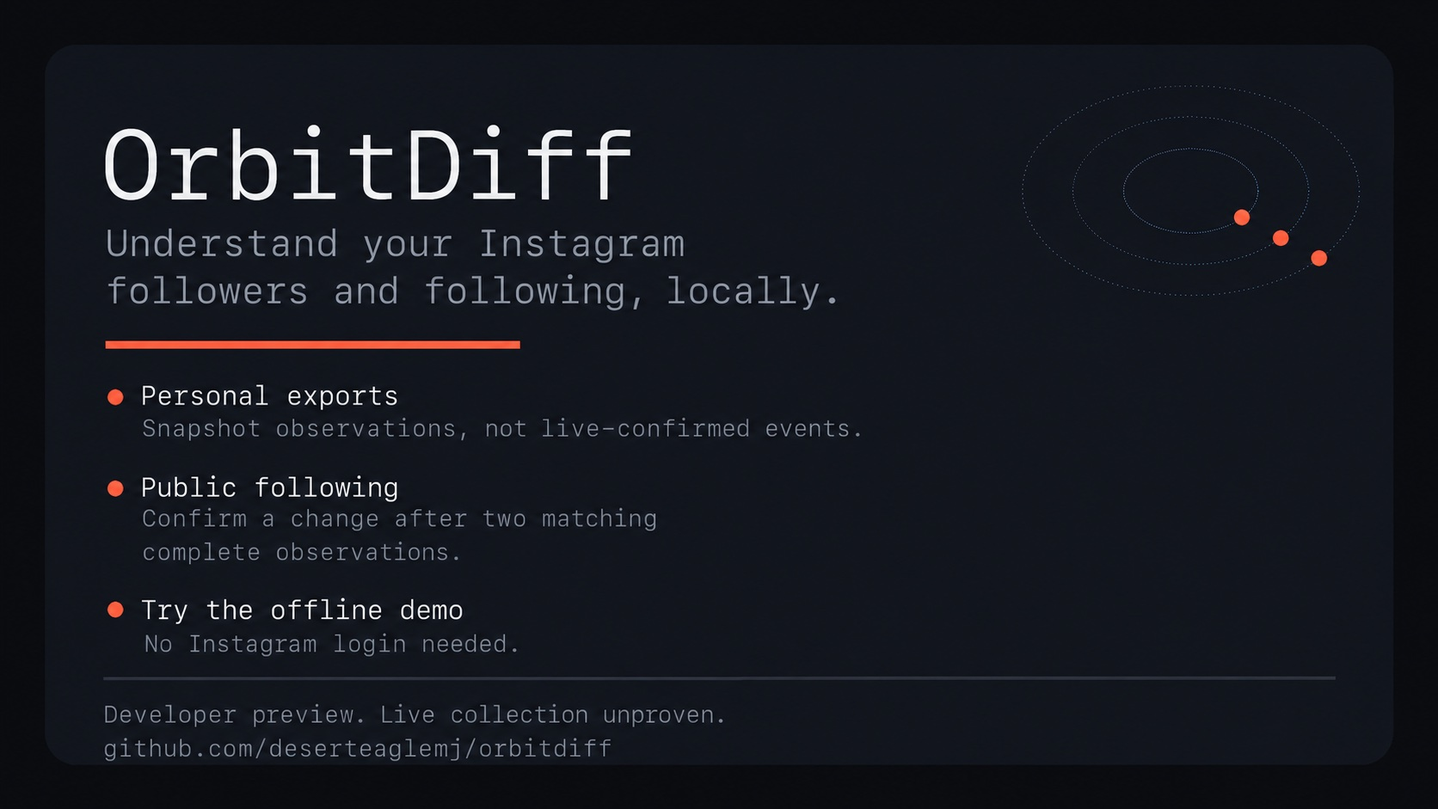
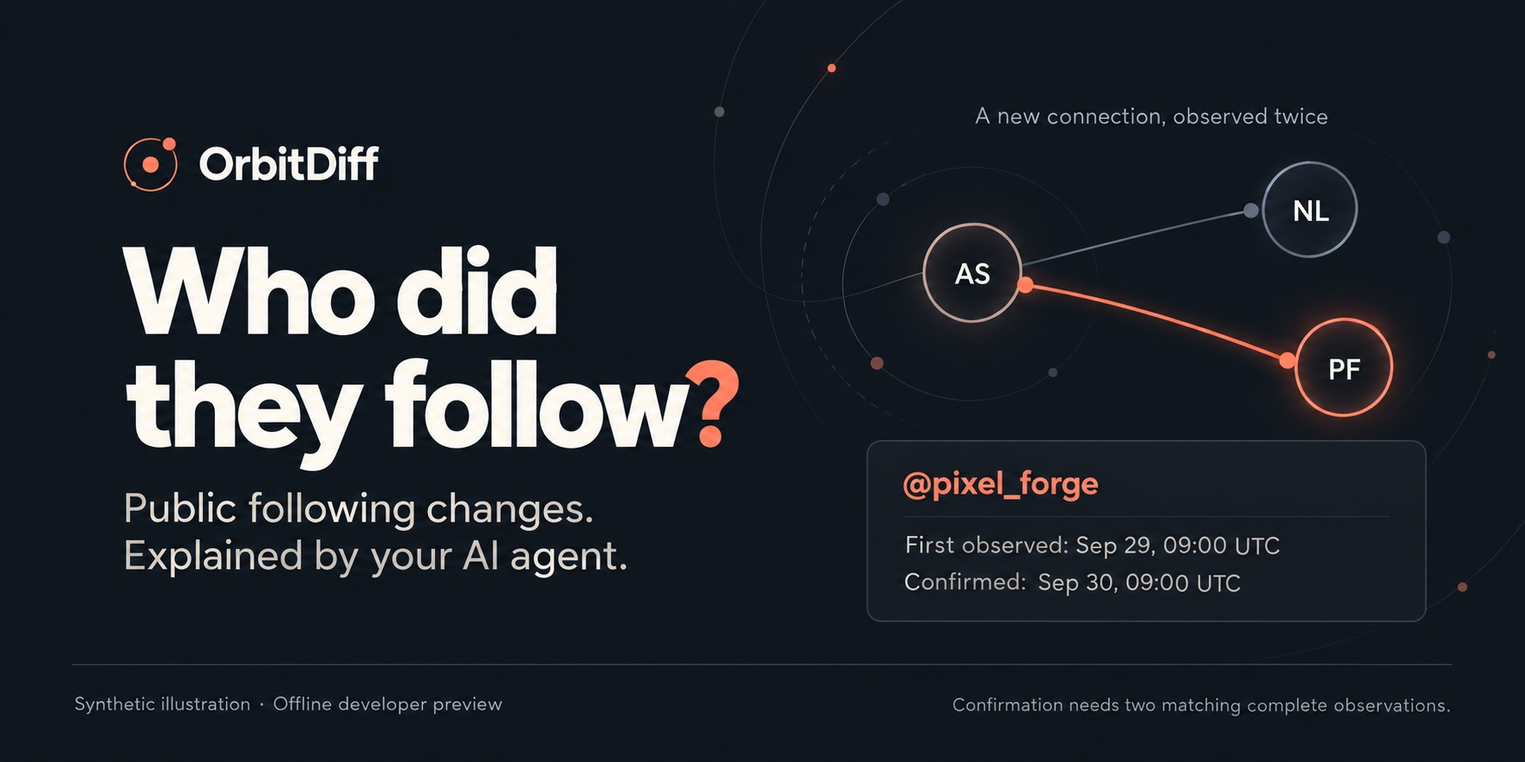
Lead OrbitDiff with public following changes (#6)
* Lead OrbitDiff marketing with public following changes

* Keep the first action above the hero image

diff --git a/docs/github-usability-audit.md b/docs/github-usability-audit.md
@@ -1,10 +1,10 @@
 # GitHub and first-use audit
 
-Audit dated 2026-09-30. Outcome: partial. The public story and starting instructions were improved; release delivery, fresh host execution, and human usability retain the separate gates below. This record separates observed defects, usability hypotheses, and editorial preferences. It is not a customer-research or conversion-success claim.
+Audit dated 2026-09-30, revised after the founder selected a public-following-first audience. Outcome: partial. The marketing implementation and audit findings are recorded separately from release delivery, fresh host execution, human usability, and live collection. This record separates observed defects, usability hypotheses, and editorial preferences. It is not a customer-research or conversion-success claim.
 
 ## Baseline and method
 
-Public main: `01cae2acdd4f4d2b1a24f7cba6d62ec79ac343e0`, the merge of PR #4. Published preview: `v0.2.2` at `f30806c88761ce1b271135dab5c9cc5550a76e8a`. Its assets precede the installation improvements on main. GitHub's Latest release selects stable v0.2.1; v0.2.2 is explicitly a prerelease.
+Initial audit baseline: `01cae2acdd4f4d2b1a24f7cba6d62ec79ac343e0`, the merge of PR #4. Marketing revision baseline: `42e393ba6a5083d31f850c465490c11392fe9b43`, the merge of PR #5. Published preview: `v0.2.2` at `f30806c88761ce1b271135dab5c9cc5550a76e8a`. Its assets precede the installation improvements on main. GitHub's Latest release selects stable v0.2.1; v0.2.2 is explicitly a prerelease.
 
 Read the repository and rendered GitHub README, inspected repository metadata and release assets with GitHub CLI 2.100.0, and followed the published installation check. Local environment: Apple Silicon macOS 26.6.2, Python 3.13. Existing commands and assets were retained; no Instagram collection was attempted.
 
@@ -14,7 +14,7 @@ GitHub returned zero issues and zero discussions at inspection. No participant o
 
 ## Finding register
 
-All findings below were observed on 2026-09-30. Source paths refer to baseline main unless stated otherwise. Owners are the maintainer except the real-participant prerequisite, which belongs to the user.
+All findings below were observed on 2026-09-30. G01-G08 refer to the initial baseline; G09-G12 refer to the marketing revision baseline. Owners are the maintainer except the real-participant prerequisite, which belongs to the user.
 
 | ID | Category / priority / classification | Evidence and reproduction | Impact, smallest fix, and acceptance | State |
 | --- | --- | --- | --- | --- |
@@ -26,18 +26,43 @@ All findings below were observed on 2026-09-30. Source paths refer to baseline m
 | G06 | Branding / P2 / verified metadata gap | GitHub About mentions public following only; GraphQL reports usesCustomOpenGraphImage=false. | Discovery/sharing omits the personal-export use case and uses a generic preview. Prepare matching description and share asset; acceptance requires live settings readback. | Fixed: description read back and custom preview visibly applied; GraphQL now reports true. |
 | G07 | Branding / P2 / verified claim-evidence mismatch | View docs/social-preview.png: broad host claims, any-public wording, and a change being real after two scans. | Shared copy overstates evidence and compatibility. Replace with the two supported sources and accurate limits; visually inspect text/crop and read back configured preview. | Fixed and retested in the image and GitHub preview setting. |
 | G08 | First result / P3 / editorial preference | README has no result image although docs/demo.svg exists. | A synthetic example may make the output easier to understand. Embed the labeled illustration with equivalent alt text; inspect rendering and measure interpretation in the pilot. | Illustration embedded; rendering evidence belongs to the PR handoff. Human interpretation Unproven. |
+| G09 | Positioning / P1 / verified mismatch with founder direction | README opens with the owner's supplied exports. The founder explicitly selected people asking who a crush or partner started following. | The lead story answers the secondary job. Lead with another account's public following changes, a recognizable relationship-curiosity use case, and a single offline first action. Acceptance: opening, metadata, image, and context agree. | Copy and generated asset implemented; publication checks recorded in the PR handoff. Audience demand Unproven. |
+| G10 | Understanding / P2 / usability hypothesis | README does not explain first-observed versus confirmed dates or the lack of exact Follow action time near the public promise. Source stores collection-derived dates. | Readers asking "when" may infer an exact action timestamp. Add a concrete synthetic sequence and date explanation, with baseline and confirmation requirements. Retest against source and advertised release; measure interpretation in the pilot. | Source and release semantics agree; copy and pilot updated. Human comprehension Unproven. |
+| G11 | Automation / P2 / usability hypothesis | Existing copy says no schedule is installed but leaves the daily-use path to skill references. | Readers may not understand the next prerequisite. Explain verified manual live use, explicit scheduling, and host support, then link to the authoritative cadence reference. | Prerequisites colocated with the daily-use answer. Live and host gates remain Unproven. |
+| G12 | Research / P2 / verified coverage gap | The original pilot has no explicit task on public date interpretation or daily scheduling prerequisites. | A pilot focused on owner exports would miss the new primary job. Add a neutral public-example task and separate evaluator criteria. Acceptance: task uses synthetic data and tests meaning without live collection. | Pilot packet updated. Actual participants remain 0 of 5. |
 
 ## Decisions and evidence coverage
 
-Headline alternatives considered: "Your Instagram relationships, stored on your computer" (existing, broad), "Understand your Instagram followers and following, locally" (selected, names the input domain and benefit), and "See what changed in your Instagram exports" (too narrow for the public-list workflow). This is an editorial choice, not a measured winner.
+The initial audit selected "Understand your Instagram followers and following, locally" from three editorial alternatives. That direction was superseded by the founder's explicit public-following use case after PR #5. Neither headline is a measured conversion winner.
 
 The selected action is "Try the offline demo with your agent". A star/share request would not help a newcomer reach a first result. The opening keeps the evidence limits beside the two workflows. The existing synthetic illustration is labeled; it is not a screenshot or live result.
 
 The skill's current route table distinguishes installation, import, stored inspection, public collection, diagnosis, and scheduling. It conditionally loads references and retains supported metadata and invocation policy. No observed routing defect yet justifies a broad rewrite. Public/private scope and untrusted-input cases remain covered by existing deterministic tests; test results will be reported separately from fresh host behavior.
 
-The README was reduced from 1,179 to 834 whitespace-delimited words. The recommended route now has one opening action and a concrete task, with manual alternatives in a disclosure. These are editorial and structural changes, not measured improvements in task completion or conversion.
+PR #5 reduced the README from 1,179 to 834 whitespace-delimited words and selected one opening action with a concrete task, retaining manual alternatives in a disclosure. These were editorial and structural changes, not measured improvements in task completion or conversion. The marketing revision adds the public date example and daily-use explanation instead of treating word count as the goal.
 
-The repository description now reads: "Understand Instagram followers and following locally. Agent Skill + separate runtime for personal export snapshots and public-following observations. Offline developer preview." The existing homepage and topics were retained. The corrected PNG is the source asset; the 218,907-byte JPEG is the GitHub upload artifact. The preview was visually checked in repository settings and the custom-image flag was read back as true. External social-network cache behavior was not tested.
+PR #5's description led with followers and following locally, with personal snapshots before public observations. Its 218,907-byte JPEG was applied as the custom preview and verified in repository settings. Those were successful publication checks for the previous positioning, not evidence that the story fit the founder's newly specified audience. External social-network cache behavior was not tested.
+
+## Public-following marketing revision
+
+Executed the [reusable audit prompt](marketing-audit-prompt.md) using task decomposition, a claim-to-evidence matrix, accurate/unsupported examples, bounded copy review, and final verification. The founder supplied the audience direction. No new customer interviews, market-size evidence, or demand measurements were invented.
+
+The chosen headline is **"Who did they follow?"** Supporting copy makes relationship curiosity explicit and answers it with public accounts, observed changes, and dates. Personal exports remain a separate secondary use case. The primary action stays the isolated offline demo; both mirrored setup prompts put stored public changes first in their example requests. That example remains a stored read. The runtime and main skill route contracts were preserved.
+
+The relevant provider, event store, report, and local-app profile-link source is identical between the marketing baseline and advertised v0.2.2 tag. The matrix below therefore describes implemented preview behavior, while the separate live gate remains Unproven.
+
+| Reader's question | Supported claim | Source and limit |
+| --- | --- | --- |
+| Who did they start following? | A public account appeared after the baseline and the same change persisted across two matching complete observations. | [Store](../src/orbitdiff/store.py) and [diff](../src/orbitdiff/diff.py). First baseline emits no events; additions and removals can be pending. |
+| Who is that new account? | Reports identify its public username and stable account ID; the local app links to the observed profile. | [Provider](../src/orbitdiff/providers/instaloader.py), [reports](../src/orbitdiff/reports.py), and [app](../src/orbit_os/web/app.js). They do not establish personal identity, gender, or motive. |
+| When did it happen? | Original CLI reports expose first-observed and confirmed timestamps. | [Reports](../src/orbitdiff/reports.py), [store](../src/orbitdiff/store.py), and [provider](../src/orbitdiff/providers/instaloader.py). These derive from collection times. The Orbit OS Markdown view shows confirmation time only; do not claim all views show both. |
+| Can it show earlier history or every brief follow? | It compares stored observations after a baseline. | [Store](../src/orbitdiff/store.py) and [collection bounds](../skills/orbitdiff/SKILL.md#public-watchlists). There is no historical backfill; changes between scans can go unseen. |
+| Can my agent check daily? | A supported host scheduler can be used after verified manual live setup and explicit scheduling authorization. | [Scheduling](../skills/orbitdiff/references/scheduling.md). No job is installed automatically; live and fresh host execution remain separate gates. |
+| What about my own followers? | Supplied personal exports support snapshots, mutuals, unknown reciprocity, and comparisons. | [Personal exports](../skills/orbitdiff/references/personal-exports.md). These are not live-confirmed events. |
+
+ChatGPT Image generated the replacement hero in the existing dark-ink and coral orbit direction. It shows only synthetic accounts, a first-observed date, a later confirmed date, and a visible illustration/developer-preview label. It is a concept image rather than an application screenshot. The PNG is the generated source; the JPEG is the README and GitHub upload derivative. Review requires reading the rendered text and checking the crop, not merely finding the files.
+
+The revised pilot explicitly tests which account changed, what dates mean, unknown motives, and the manual-live prerequisite for scheduling. Participant recruitment and sessions remain unperformed. The broader audit outcome therefore stays partial even when the marketing slice passes its implementation checks.
 
 ## Verification and measurement limits
 

diff --git a/README.md b/README.md
@@ -1,29 +1,42 @@
 # OrbitDiff
 
-**Understand your Instagram followers and following, locally.**
+**Who did they follow?**
 
-Give your AI agent a supplied Instagram export and ask who appears in it, which relationships are mutual, and what changed between snapshots. OrbitDiff also supports a separate workflow for observing changes in other accounts' public following lists.
+Curious whether your crush or partner started following someone new on Instagram? OrbitDiff helps your AI agent compare someone's **public following list** over time and show which accounts appeared or disappeared.
 
-The **Agent Skill** supplies instructions. The separately installed **runtime** supplies commands. **Orbit OS** is the local app that uses the same workspace.
+See the public handle, when a change was first observed, and when a later observation confirmed it. Those dates describe what OrbitDiff observed, not the exact moment someone tapped Follow. A follow alone does not explain why.
 
 **[Try the offline demo with your agent](docs/prompt.md)**
 
-Start with synthetic data. No Instagram login or personal export is needed for the demo.
+Start with synthetic data. No Instagram login or personal export is needed. **Developer preview:** live collection remains Unproven under the [release criteria](docs/release-readiness.md). After a baseline, public changes need **two matching complete observations** to be confirmed. Installation and demos do not prove live tracking.
 
-![Illustration of the synthetic public-following demo: a baseline, pending changes, then following_started and following_stopped events. No live collection is shown.](docs/demo.svg)
+![OrbitDiff: Who did they follow? Synthetic graph and example for pixel_forge, first observed September 29 at 09:00 UTC and confirmed September 30 at 09:00 UTC. Confirmation needs two matching complete observations. Offline developer preview.](docs/social-preview.jpg)
 
-*Illustration of the public-following demo. The shared `orbit-os demo` also includes personal export observations. These examples do not establish live tracking readiness.*
+*Synthetic illustration created with ChatGPT Image, not an app screenshot or live result.*
 
-## What you can learn
+## From a following list to a clear change
 
-| Your task | Input | Result and its limits |
-| --- | --- | --- |
-| Understand your own followers and following | Your supplied Instagram relationship export, JSON folder or ZIP | Mutuals, unknown reciprocity, and differences between supplied snapshots. Export observations are not live-confirmed events. Refresh with another export. |
-| Observe another account's public following | An explicitly requested public scan with your human-created local session | A silent starting baseline, pending differences, and confirmation after two matching complete observations of the same relationship change. |
+1. **Start with a baseline.** The first complete observation saves the starting list. It creates no follow events and cannot recover earlier history.
+2. **Notice a difference.** A later complete observation finds an addition or removal. The change stays pending.
+3. **Confirm what persisted.** Another complete observation must agree on that same relationship change. Failed or incomplete scans preserve the last good evidence.
 
-Missing data stays unknown. Failed or incomplete scans preserve the last good evidence. Public collection covers **following lists**, not other accounts' followers, private profiles, posts, or messages.
+For example, `pixel_forge` is absent from the baseline, appears on September 29, and is still present in the next complete observation on September 30. The report records September 29 as first observed and September 30 as confirmed. It does not establish when the Follow action happened. Brief changes between scans can go unseen.
+
+## Ask your agent what changed
+
+Once you have stored observations, give your agent a request like this:
+
+> Show changes in `atlas_studio`'s stored public following list. Which accounts appeared or disappeared? Include first-observed and confirmed dates, separate pending changes, and explain anything unknown. Use my selected workspace without collecting new data.
+
+**Who is the new account?** Results identify its public handle and account ID. The local app links to the observed profile. OrbitDiff does not establish the person behind it, their gender, relationship status, or motives.
+
+**Can my agent check daily?** After the manual live workflow is verified, an explicitly requested schedule can use your agent host's supported scheduler. Live scans need a public target and a human-created local login session. Setup installs no recurring job. [Scheduling prerequisites](skills/orbitdiff/references/scheduling.md).
+
+Public collection covers **following lists**. Other accounts' followers, private profiles, posts, and messages are outside this workflow. [Public scan setup and limits](skills/orbitdiff/SKILL.md#public-watchlists).
 
 ## Start with the Agent Skill
+
+The **Agent Skill** supplies instructions. The separately installed **runtime** supplies commands. **Orbit OS** is the local app that uses the same workspace.
 
 Use a local agent with file access and command execution. A chat-only assistant cannot run the tool on your computer.
 
@@ -58,17 +71,15 @@ Without pipx or skill-install support, use the [verified archive and isolated-en
 
 These commands select the published **v0.2.2 developer preview**. Main-branch documentation and skill improvements can be newer than that release. [Installation evidence](docs/skill-installation-verification.md) separates the published artifacts, local candidates, and host tests. Codex, Claude Code, and Cursor file placement has been checked; fresh host discovery and task execution remain Unproven. Other hosts need their own verification.
 
-## After the demo
+## Also: understand your own followers and following
 
-Ask your agent to do one task, using your own account handle and selected paths:
+Import your supplied Instagram relationship export to see mutuals, unknown reciprocity, and differences between snapshots. This is a separate offline workflow: **export observations are not live-confirmed events**. Refresh it with another export.
+
+After the demo, use your own account handle and selected paths:
 
 > Import my supplied JSON export for `atlas_studio` into my selected workspace. I have not declared either direction complete. Show the relationships and explain what remains unknown.
 
-For an existing workspace:
-
-> Show my stored relationships and changes, including source dates and coverage. Do not collect new data.
-
-Keep exports and session material local. OrbitDiff has no cloud account or telemetry; your AI host's handling of files and command output follows that host's own settings. Personal imports, stored reports, app refresh, and demos do not contact Instagram. Live public collection requires a separate human login and explicit request; [read its boundaries first](skills/orbitdiff/SKILL.md#public-watchlists). No automatic daily schedule is installed.
+Keep exports and session material local. OrbitDiff has no cloud account or telemetry; your AI host's handling of files and command output follows that host's own settings. Personal imports, stored reports, app refresh, and demos do not contact Instagram.
 
 ## Prefer the desktop app?
 
@@ -81,7 +92,5 @@ The separate **Orbit OS.app** bundles the interface and runtime, without requiri
 - **Existing OrbitDiff data:** retain the same explicit path as `--workspace PATH` for `orbit-os` and `--data-dir PATH` for `orbitdiff`; their default directories differ. [Command reference](skills/orbitdiff/references/commands.md).
 - **Questions or reproducible problems:** [GitHub Issues](https://github.com/deserteaglemj/orbitdiff/issues). Share synthetic examples and versions. Use the [private reporting guidance](SECURITY.md) for vulnerabilities.
 - **Contribute:** [development setup](CONTRIBUTING.md), [release checks](docs/release-checklist.md), and [readiness criteria](docs/release-readiness.md).
-
-Live public collection remains Unproven under the release criteria. Installation and offline demos do not prove live tracking.
 
 MIT licensed. [LICENSE](LICENSE). OrbitDiff and Orbit OS are not affiliated with Instagram or Meta.

diff --git a/.agents/product-marketing-context.md b/.agents/product-marketing-context.md
@@ -1,28 +1,33 @@
 # OrbitDiff product marketing context
 
-Updated 2026-09-30. Repository-derived positioning for an existing product. Audience and conversion hypotheses below have not been validated with customers.
+Updated 2026-09-30. Founder-directed positioning for an existing product, checked against source and the advertised v0.2.2 preview. Audience and conversion hypotheses have not been validated with customers.
 
 ## Product and audience
 
-OrbitDiff helps people understand Instagram followers and following locally through an Agent Skill and a separate command runtime. Orbit OS is the app that operates the same workspace. The source is MIT licensed; no paid offer or pricing model is established here.
+OrbitDiff helps people see changes in someone else's public Instagram following list through an Agent Skill and a separate command runtime. Orbit OS is the local app that operates the same workspace. The source is MIT licensed; no paid offer or pricing model is established here.
 
-The initial audience hypothesis is people already using a local AI agent who want to interpret their own supplied relationship exports. A separate advanced workflow observes other accounts' public following lists. A chat-only assistant, private-profile collection, and automatic daily tracking without setup are outside that promise.
+The founder's selected audience is people curious whether a crush or partner started following somebody new. Lead with that recognizable question and show the account handle and observation dates that the tool can actually provide. This direction comes from the founder's request, not interviews, usage data, or proof of demand. Gender classification and judgments about attraction or fidelity are not product capabilities.
+
+The first-use route is for people with a local AI agent that can access files and run commands. Personal export interpretation remains a separate secondary benefit. A chat-only assistant, private-profile collection, and automatic daily tracking without verified setup are outside the promise.
 
 Jobs supported by the current tool:
 
-- Understand mutual relationships and unknown reciprocity in a supplied export.
-- Compare supplied snapshots while keeping their capture dates and coverage explicit.
-- Inspect stored public-following observations and distinguish baseline, pending, confirmed, and failed states.
+- See which public accounts appeared or disappeared from a following list after a starting baseline.
+- Ask an agent to report first-observed and confirmed dates, keeping pending changes distinct.
+- Inspect stored observations and understand baseline, pending, confirmed, and failed states.
+- Separately, understand mutual relationships and unknown reciprocity in a supplied personal export, or compare supplied snapshots with their dates and coverage explicit.
 
 Product facts come from [the glossary](../CONTEXT.md), [the skill](../skills/orbitdiff/SKILL.md), and [readiness criteria](../docs/release-readiness.md). Those files own the behavior and evidence contract.
 
 ## Positioning and voice
 
-Lead with OrbitDiff. Introduce the runtime and Orbit OS as the pieces a user may need for their chosen route. The opening promise is: "Understand your Instagram followers and following, locally."
+Lead with OrbitDiff and the reader's question: "Who did they follow?" The supporting promise is public following changes explained by an AI agent. Introduce the runtime and Orbit OS as the pieces a user may need for their chosen route.
 
-Use plain, calm, specific language: supplied export, snapshot, mutual, unknown, public following, pending, confirmed. Explain what the reader can learn before implementation details. Prefer an offline example and a concrete next task over a long feature list.
+Use direct, curious, calm language: who appeared, who disappeared, first observed, confirmed, public following, pending, unknown. Make relationship curiosity recognizable without encouraging suspicion or treating a follow as a relationship verdict. Prefer a labeled synthetic example and a concrete next task over a long feature list.
 
-Describe interpretation and user control. Do not imply motives, interpersonal relationships, identity continuity, private access, universal agent support, consumer-ready installation, or live readiness. Proof of installation and proof of live collection are separate. The AI host may handle file contents or command output according to its own settings; local OrbitDiff storage is not an assurance about the host's data handling.
+Explain what an observation establishes and leave unknowns explicit. The source contracts above govern identity, scope, confirmation, and scheduling. Keep first-observed and confirmed dates distinct from the exact Follow action time, and explain that history begins with setup. Keep the developer-preview status and separate live-readiness gate beside the primary action. The AI host may handle file contents or command output according to its own settings; local OrbitDiff storage is not an assurance about the host's data handling.
+
+Use the dark ink, warm off-white, and coral orbit identity from the repository image. Generated results must say they are synthetic illustrations. Show public account handles and observation states instead of people, gender symbols, or invented application screens.
 
 ## Objections and alternatives
 
@@ -30,10 +35,13 @@ These are anticipated questions, not customer quotations:
 
 | Question | Supported answer |
 | --- | --- |
+| Can I see who they started following? | Complete observations can reveal a public account added after the baseline; the same change needs another matching complete observation before confirmation. |
+| Can I see exactly when it happened? | The report records when the change was first observed and later confirmed, not the platform's action time. |
+| Who is that person? | The result identifies the public account handle and ID. The app links to the profile; personal identity and motives remain unknown. |
 | Must I connect Instagram to try it? | The isolated demo and personal export imports need no Instagram login. |
 | Will it work with my agent? | Local files and command execution are prerequisites; consult measured host evidence before claiming compatibility. |
 | Will setup affect my existing history? | The demo is isolated. Use an explicit workspace for real work and preserve existing installations. |
-| Is it checking continuously? | It installs no automatic schedule. Live collection has separate prerequisites and verification. |
+| Can it check every day? | A verified manual live workflow precedes an explicitly requested host schedule. There is no automatic schedule at installation, and this preview's live collection gate is Unproven. |
 
 Manual comparison and doing nothing are plausible alternatives. No comparative superiority, time saving, market demand, or switching behavior has been measured.
 
@@ -45,6 +53,6 @@ Use [installation evidence](../docs/skill-installation-verification.md) and the 
 
 ## Goal and next action
 
-Help a newcomer understand the promise, choose the correct installation route, and interpret a useful first result. The primary README action is the copy-paste offline setup prompt. Skill-only requests finish with their own installation/discovery evidence. Stars and shares are secondary observations, not activation proof.
+Help a newcomer answer which account changed and what the dates mean, choose the correct installation route, and interpret a useful first result. The primary README action is the copy-paste offline setup prompt. Skill-only requests finish with their own installation/discovery evidence. Stars and shares are secondary observations, not activation proof.
 
 Traffic sources, conversion rate, human time to first result, and retention remain unknown. The newcomer pilot measures understanding, task completion, errors, and requests for help using existing tools and synthetic inputs.

diff --git a/docs/newcomer-pilot.md b/docs/newcomer-pilot.md
@@ -1,8 +1,8 @@
 # Newcomer pilot
 
-Purpose: measure whether real newcomers can understand OrbitDiff, choose a route, reach the offline demo, interpret a supplied export, and find help. This packet is prepared; no participant sessions have been run.
+Purpose: measure whether real newcomers understand the public-following promise, reach the offline demo, interpret observation dates, distinguish the separate personal-export workflow, and find help. This packet is prepared; no participant sessions have been run.
 
-Use five people who have not maintained OrbitDiff. The user supplies participants or separately authorizes recruitment. Keep anonymous IDs P01-P05 and synthetic inputs. Use existing local agents, authentication, and tools; note missing prerequisites instead of changing accounts, installing new agent hosts, or buying access.
+Use five people who have not maintained OrbitDiff. The user supplies participants or separately authorizes recruitment. Prefer people interested in understanding public following changes with a local agent. Record why they would use the tool in their own words; the founder's relationship-curiosity positioning is a hypothesis to test. Keep anonymous IDs P01-P05 and synthetic inputs. Use existing local agents, authentication, and tools; note missing prerequisites instead of changing accounts, installing new agent hosts, or buying access.
 
 ## Facilitator setup
 
@@ -39,8 +39,9 @@ Share only this section and the named materials, not the evaluator rubric below.
 
 1. Open the README. In your own words, explain what OrbitDiff helps you do, what you would need to provide, and whether it fits your situation.
 2. Starting from that page in your selected project, get a working example result without using your real Instagram account. Explain what you did and what the result tells you. Use the docs as you normally would.
-3. Import the supplied export for atlas_studio into the selected workspace. Explain what the result says about nova_labs and pixel_forge, and what it tells you about changes happening right now.
-4. Read the missing-executable scenario card. Find the next step and explain where you found it.
+3. Read the public-following example on the README. Explain which account changed, what each date tells you, and what remains unknown. Describe what you would need to do before asking an agent to check each day. This is an interpretation task; leave live collection untouched.
+4. Import the supplied export for atlas_studio into the selected workspace. Explain what the result says about nova_labs and pixel_forge, and what it tells you about changes happening right now.
+5. Read the missing-executable scenario card. Find the next step and explain where you found it.
 
 You may stop at any time. Ask for help when you normally would; the facilitator will record where help was needed. Do not provide credentials or run live Instagram collection.
 
@@ -50,10 +51,11 @@ Use observed actions and the participant's complete explanation. Do not correct 
 
 | Task | Observable acceptance |
 | --- | --- |
-| Understanding | Explains the tool's purpose and necessary input, and distinguishes instructions from commands. |
+| Understanding | Identifies changes in another account's public following list as the primary use case, explains necessary input, and distinguishes instructions from commands. |
 | First result | Completes the selected installation/setup route and runs the isolated offline demo. Can identify the separate personal and public sources. Placement alone does not count as host execution. |
 | Interpretation | Recognizes nova_labs as mutual in the supplied snapshot; leaves pixel_forge reciprocity and capture time unknown; does not call snapshot differences live-confirmed events. |
-| Public evidence | Explains that confirmation needs two matching complete observations and that an offline demo provides no live collection proof. Score from the participant's explanation without supplying this answer. |
+| Public evidence | Identifies pixel_forge as the illustrative addition; distinguishes first-observed from confirmed dates and exact Follow action time; explains the baseline and two matching complete observations. Recognizes the image as synthetic, leaves personal motives unknown, and does not treat the demo as live collection proof. |
+| Daily use | Finds that scheduling needs an explicitly requested, supported host schedule after a verified manual live workflow. Does not mistake skill installation for an active daily job. |
 | Recovery | Finds the installation guidance, identifies the missing runtime prerequisite, and chooses a supported route without proposing an overwrite or claiming an unperformed repair. |
 | Preservation | Fixtures retain contents/modes/times; real/default history is unchanged; only the selected synthetic workspace is populated. |
 

diff --git a/docs/marketing-audit-prompt.md b/docs/marketing-audit-prompt.md
@@ -1,0 +1,75 @@
+# Prompt: audit the public-following story
+
+Use this prompt for the existing product. Product behavior and evidence rules remain owned by the repository skill and release-readiness documents.
+
+```text
+Role:
+Act as OrbitDiff's product marketer, usability auditor, and release reviewer.
+
+Context:
+The product already exists. Lead with the reader's question: "Who did they
+follow?" The founder has chosen relationship curiosity as the positioning:
+someone may want to see whether a crush or partner started following a new
+public account. This is a chosen audience hypothesis, not customer research.
+
+Inputs:
+Read README.md, .agents/product-marketing-context.md, CONTEXT.md,
+skills/orbitdiff/SKILL.md, its safety and scheduling references,
+docs/release-readiness.md, the existing usability audit, and newcomer pilot.
+Compare relevant source with the release advertised in the installation steps.
+Use prompt-engineering and prompt-engineering-patterns for this process;
+writing-for-agents for agent instructions; product-marketing-context,
+customer-research, page-cro, copywriting, and copy-editing for the story.
+Open the available skill files before applying them.
+
+Task:
+Audit and improve the GitHub story, first-use guidance, and brand imagery.
+Help readers understand which public account appeared, what changed, and
+what the observation dates mean. Preserve the existing installation routes.
+
+Process:
+1. Build a claim-to-evidence matrix from current source and the advertised
+   release. Distinguish implemented behavior, verified use, and unknowns.
+2. Walk the newcomer journey: promise, example, first action, setup, result,
+   and recovery. Add findings to the existing register with evidence,
+   severity, classification, smallest fix, and an observable acceptance test.
+3. Lead with public following changes and a concrete relationship-curiosity
+   use case. Keep personal export interpretation as a separate secondary
+   benefit. Use one primary action: try the isolated offline demo.
+4. Generate matching imagery with ChatGPT Image. Use fictional handles,
+   legible text, and a visible synthetic-illustration label. Inspect the
+   actual output and GitHub crop before publishing it.
+5. Apply two bounded copy-review passes for clarity, specificity, proof,
+   relevance, and action. Recheck every changed claim against the matrix.
+6. Personally review the final diff. Run the repository's applicable tests,
+   static checks, package checks, and skill validation with existing tools.
+   Identify candidate evidence and exact-commit CI separately from release
+   evidence. Verify GitHub rendering and any changed metadata after applying.
+
+Examples:
+Accurate: "See when a public following change was first observed and later
+confirmed." Unsupported: "Know exactly when they tapped Follow."
+Accurate: "A public account appeared in their following list."
+Unsupported: "This proves attraction, cheating, or who that person is."
+
+Quality bar:
+A newcomer can explain the main benefit, the input needed, the next action,
+and the result's limits. Public events need two matching complete observations
+of the same change after a baseline. Personal exports are snapshot observations,
+never live-confirmed events. Keep those sources distinct in copy and examples.
+
+Constraints:
+Work within the authorized documentation and asset boundary. Use existing
+runtime behavior; leave concurrent source work intact. Keep Instagram untouched.
+Describe observation times rather than exact action times; scope history to
+observations after setup. Keep gender, identity, motives, and relationship
+judgments unknown. Explain daily scheduling as a separate, explicit step after
+a verified manual live workflow. Installation and demos prove only their own
+checks. Keep live readiness and unrun host discovery labeled Unproven.
+
+Output format:
+Return the applied changes, finding IDs, verified commit and commands, image
+provenance, GitHub links, and remaining gates. Label the outcome success,
+partial, blocked, error, or no_work. Report human usability as Unproven until
+real participant sessions exist. Use the neutral pilot to collect that evidence.
+```

diff --git a/docs/prompt.md b/docs/prompt.md
@@ -77,7 +77,8 @@ was not verified, including unavailable host discovery or platform execution.
 
 Example task requests:
 
-- **Owner import:** "Import my supplied JSON export for `atlas_studio` into my selected workspace. I have not declared either direction complete."
-- **Stored reads:** "Show my stored relationships and changes, with source dates and coverage. Do not collect new data."
+- **Stored public changes:** "Show changes in `atlas_studio`'s stored public following list. Which accounts appeared or disappeared? Include first-observed and confirmed dates, separate pending changes, and explain anything unknown. Use my selected workspace without collecting new data."
 - **Authorized public baseline:** "Establish one public following baseline for `nova_labs` in my selected workspace using my existing login handle, if no successful baseline exists."
+- **Owner import:** "Import my supplied JSON export for `atlas_studio` into my selected workspace. I have not declared either direction complete."
+- **Stored relationships:** "Show my stored personal relationships and export observations, with source dates and coverage. Do not collect new data."
 - **Diagnosis:** "Explain missing, stale, partial, or failed sources using stored evidence. Keep unknown causes unknown and report the next permitted action."

diff --git a/skills/orbitdiff/references/onboarding.md b/skills/orbitdiff/references/onboarding.md
@@ -77,7 +77,8 @@ was not verified, including unavailable host discovery or platform execution.
 
 Example task requests:
 
-- **Owner import:** "Import my supplied JSON export for `atlas_studio` into my selected workspace. I have not declared either direction complete."
-- **Stored reads:** "Show my stored relationships and changes, with source dates and coverage. Do not collect new data."
+- **Stored public changes:** "Show changes in `atlas_studio`'s stored public following list. Which accounts appeared or disappeared? Include first-observed and confirmed dates, separate pending changes, and explain anything unknown. Use my selected workspace without collecting new data."
 - **Authorized public baseline:** "Establish one public following baseline for `nova_labs` in my selected workspace using my existing login handle, if no successful baseline exists."
+- **Owner import:** "Import my supplied JSON export for `atlas_studio` into my selected workspace. I have not declared either direction complete."
+- **Stored relationships:** "Show my stored personal relationships and export observations, with source dates and coverage. Do not collect new data."
 - **Diagnosis:** "Explain missing, stale, partial, or failed sources using stored evidence. Keep unknown causes unknown and report the next permitted action."
